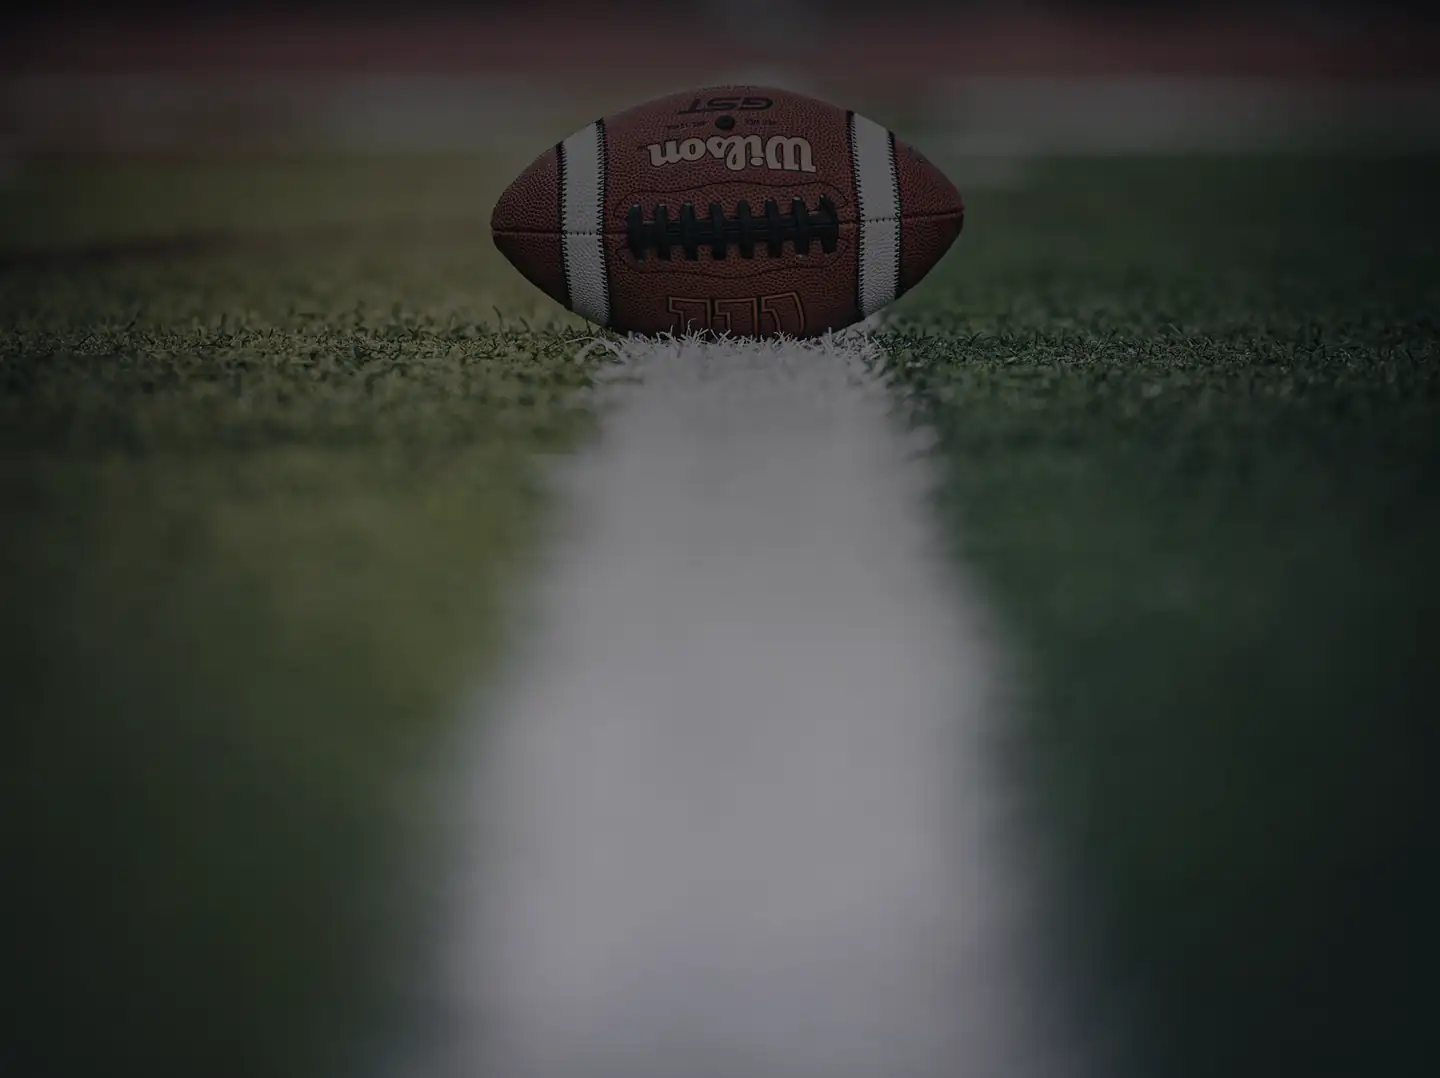
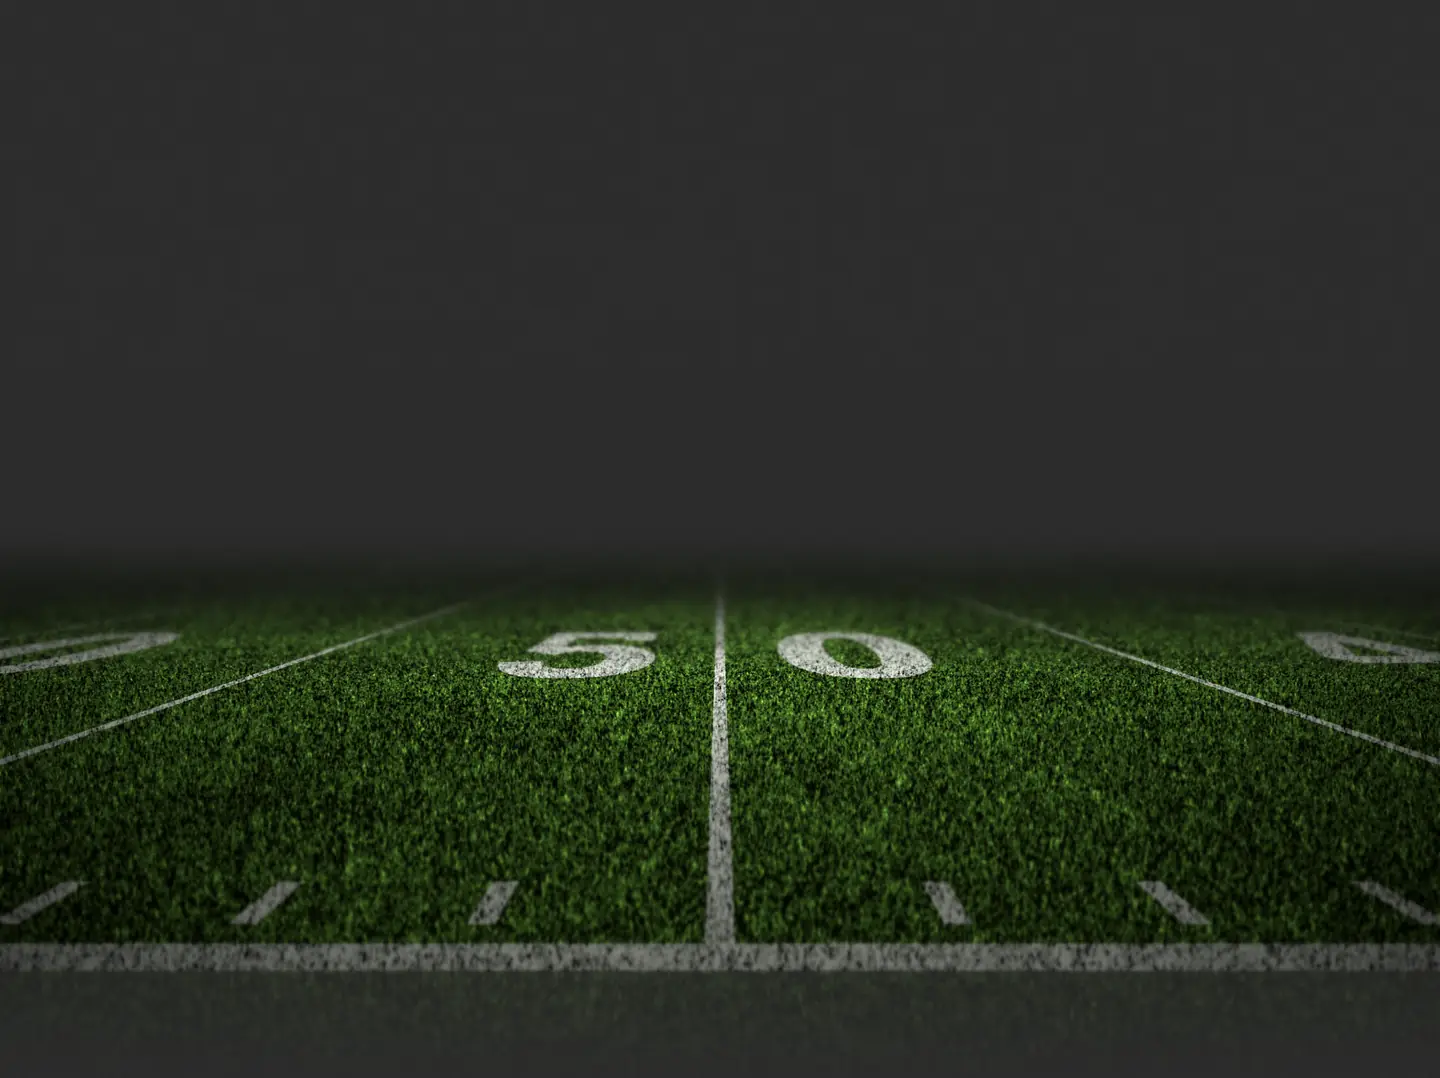
Influence: rendered floodlit field, softer grain, Total Yards box height
- Replace the darkened ball close-up (read as a grey light patch) with a
  procedural floodlit pitch (scripts/gen-field.py), no third-party marks.
- Grass grain: 512px tile shown at 170px, ~40% less contrast than the
  reference; mean kept so the page tone is unchanged.
- Total Yards: keep the 0.8 glyph scale but restore the reference line-box
  height, so every section below starts where it does in the original.

diff --git a/apps/web/scripts/gen-field.py b/apps/web/scripts/gen-field.py
@@ -1,0 +1,190 @@
+"""Procedural floodlit football field for the Influence section (replaces a stock photo).
+
+Camera stands just behind the near sideline at the 50, eye ~1.5 m up, looking across the
+field. The ground is ray-cast per pixel (2x supersampled), so turf grain, mowing stripes,
+painted lines and numerals all foreshorten correctly. Then: floodlight pool, fog into the
+page base (#2D2D2D) toward the horizon, distance blur and a dark grade.
+
+  python apps/web/scripts/gen-field.py  ->  public/media/influence-field.webp (1440x1078)
+"""
+import os
+import numpy as np
+from PIL import Image, ImageDraw, ImageFont
+from scipy.ndimage import gaussian_filter, map_coordinates
+
+OUT = os.path.join(os.path.dirname(__file__), "..", "public", "media", "influence-field.webp")
+W, H, S = 1440, 1078, 2                      # output size, supersampling
+FONT = "C:/Windows/Fonts/ROCKB.TTF"          # slab serif, close to painted field numerals
+BASE = np.array([45, 45, 45], np.float32)    # page base colour the image dissolves into
+rng = np.random.default_rng(50)
+
+w, h = W * S, H * S
+f = 1.0 * w                                   # focal length (px) ~ 53 deg horizontal FOV
+cx, cy = w / 2, h / 2
+theta = np.arctan(0.02 * h / f)               # slight downward pitch: horizon at 48% height
+cam_h = 1.7                                   # yards
+ZS = 5.55                                     # near sideline distance (yards, across-field axis)
+
+v, u = np.mgrid[0:h, 0:w].astype(np.float32)
+x = (u + 0.5 - cx) / f
+y = (v + 0.5 - cy) / f
+dy = -y * np.cos(theta) - np.sin(theta)
+dz = -y * np.sin(theta) + np.cos(theta)
+ground = dy < -1e-4
+t = np.where(ground, cam_h / np.maximum(-dy, 1e-4), 1e4)
+X = t * x                                     # along the sideline (yard lines are X = const)
+Z = t * dz                                    # away from the camera
+Z = np.minimum(Z, 400)
+
+# ---------------- turf ----------------
+def screen_noise(sig_x, sig_y):
+    n = gaussian_filter(rng.standard_normal((h, w)).astype(np.float32), (sig_y, sig_x))
+    return n / (n.std() + 1e-6)
+
+# Blade grain whose size follows the ground footprint: near = coarse vertical blades,
+# far = fine, squashed streaks. Blend a few precomputed scales by distance.
+scales = [(1.3, 3.4, 9.0), (1.1, 2.0, 14.0), (1.0, 1.1, 22.0), (0.9, 0.6, 40.0), (0.7, 0.4, 1e9)]  # (sx, sy) in supersampled px
+grain = np.zeros((h, w), np.float32)
+prev_z, prev_n = 0.0, None
+weights_total = np.zeros((h, w), np.float32)
+for sx, sy, zmax in scales:
+    n = screen_noise(sx, sy) * 0.7 + screen_noise(sx * 2.2, sy * 2.2) * 0.3
+    centre = (prev_z + min(zmax, 80)) / 2
+    wgt = np.exp(-((Z - centre) / max(min(zmax, 80) - prev_z, 4)) ** 2)
+    grain += n * wgt
+    weights_total += wgt
+    prev_z = zmax if zmax < 1e8 else prev_z
+grain /= np.maximum(weights_total, 1e-4)
+grain /= grain.std() + 1e-6
+
+def world_noise(scale_yd, octaves=3):
+    """Low-frequency mottling sampled in world space (so it foreshortens)."""
+    acc = np.zeros((h, w), np.float32)
+    amp, sc = 1.0, scale_yd
+    for _ in range(octaves):
+        g = gaussian_filter(rng.standard_normal((256, 256)).astype(np.float32), 3, mode="wrap")
+        g /= g.std()
+        gi = (X / sc * 256 / 8) % 256
+        gj = (Z / sc * 256 / 8) % 256
+        acc += amp * map_coordinates(g, [gj.ravel(), gi.ravel()], order=1, mode="grid-wrap").reshape(h, w)
+        amp *= 0.5
+        sc /= 2.2
+    return acc / acc.std()
+
+mottle = world_noise(9.0)
+stripes = np.where((np.floor((X + 2.5) / 5.0) % 2) == 0, 1.0, 0.9)  # mowing bands between yard lines
+turf_lum = np.clip(1.0 + 0.48 * grain + 0.08 * mottle, 0.12, None)
+turf = np.stack([50 * turf_lum, 80 * turf_lum, 24 * turf_lum], -1) * stripes[..., None]
+# a few lighter dry tips
+turf += (np.clip(grain - 1.8, 0, None) * 18)[..., None] * np.array([1.0, 1.0, 0.6])
+
+# ---------------- paint ----------------
+paint = np.zeros((h, w), np.float32)
+LW = 0.12                                                     # 4" lines, in yards
+field = (Z >= ZS) & (Z <= ZS + 53.33)
+def band(a, lo, hi):
+    return ((a >= lo) & (a <= hi)).astype(np.float32)
+
+paint = np.maximum(paint, band(Z, ZS - 0.17, ZS + 0.17))      # near sideline (wide border)
+for k in range(-50, 51, 5):                                   # yard lines every 5 yards
+    paint = np.maximum(paint, band(X, k - LW / 2, k + LW / 2) * field)
+for k in range(-50, 51):                                      # 1-yard ticks: sideline + inbounds
+    if k % 5 == 0:
+        continue
+    for z0, z1 in ((ZS + 0.45, ZS + 1.15), (ZS + 23.3, ZS + 23.9), (ZS + 29.4, ZS + 30.0)):
+        paint = np.maximum(paint, band(X, k - LW / 2, k + LW / 2) * band(Z, z0, z1))
+
+# Numerals: drawn into a world-space canvas (100 px / yard), sampled through the projection.
+PX = 100
+nx0, nx1, nz0, nz1 = -26.0, 26.0, ZS + 5.0, ZS + 53.0
+NZ0, NW, ND = ZS + 9.6, 2.2, 6.2   # near numerals: base, width, depth (yards)
+canvas = Image.new("L", (int((nx1 - nx0) * PX), int((nz1 - nz0) * PX)), 0)
+d = ImageDraw.Draw(canvas)
+font = ImageFont.truetype(FONT, int(2.0 * PX * 1.36))
+def numeral(txt, x_centre, z_base, flip=False):
+    """2-yard-tall digit standing on z_base, readable from the near (or far) sideline."""
+    tile = Image.new("L", (int(3 * PX), int(3 * PX)), 0)
+    td = ImageDraw.Draw(tile)
+    bb = td.textbbox((0, 0), txt, font=font)
+    tw, th = bb[2] - bb[0], bb[3] - bb[1]
+    tile = tile.resize((tw + 4, th + 4))
+    ImageDraw.Draw(tile).text((2 - bb[0], 2 - bb[1]), txt, font=font, fill=255)
+    tile = tile.resize((int(NW * PX), int(ND * PX)), Image.LANCZOS)  # stretched in depth so it reads upright once foreshortened
+    if not flip:
+        tile = tile.transpose(Image.FLIP_TOP_BOTTOM)  # canvas rows run away from the camera
+    px = int((x_centre - nx0) * PX - tile.width / 2)
+    pz = int((z_base - nz0) * PX)
+    canvas.paste(255, (px, pz), tile)
+
+for yard, X0 in ((50, 0), (40, -10), (40, 10), (30, -20), (30, 20)):
+    a, b = str(yard)
+    numeral(a, X0 - 1.65, NZ0)
+    numeral(b, X0 + 1.65, NZ0)
+    numeral(b, X0 - 1.65, ZS + 53.33 - 8.0, flip=True)         # far side, upside down to us
+    numeral(a, X0 + 1.65, ZS + 53.33 - 8.0, flip=True)
+cv = np.asarray(canvas, np.float32) / 255.0
+ci = (X - nx0) * PX
+cj = (Z - nz0) * PX
+inside = (ci >= 0) & (ci < cv.shape[1] - 1) & (cj >= 0) & (cj < cv.shape[0] - 1)
+num = np.zeros((h, w), np.float32)
+num[inside] = map_coordinates(cv, [cj[inside], ci[inside]], order=1)
+paint = np.maximum(paint, num)
+
+# painted grass: paint sits on blades, so it takes the grain and frays at the edges
+paint *= np.clip(0.86 + 0.14 * grain, 0.45, 1.0)
+paint *= (np.clip(grain, -3, 3) > -2.5)
+line_col = np.array([206, 210, 200], np.float32) * (0.92 + 0.08 * np.clip(grain, -2, 2))[..., None]
+img = turf * (1 - paint[..., None]) + line_col * paint[..., None]
+
+
+# ---------------- light ----------------
+def g2(a, b, sa, sb):
+    return np.exp(-(a / sa) ** 2 - (b / sb) ** 2)
+
+pool = 0.30 + 0.80 * g2(X, Z - (ZS + 12), 15, 11)
+img *= pool[..., None]
+# lateral vignette in screen space (floodlights from behind the camera)
+sxn = (u / w - 0.5) * 2
+img *= (1 - 0.38 * np.clip(np.abs(sxn) ** 2.2, 0, 1))[..., None]
+
+# outside the near sideline: dark worn turf/track
+outside = Z < ZS - 0.17
+img = np.where(outside[..., None], img * 0.3 + BASE * 0.78, img)
+
+# fog into the page base toward the horizon (and above it)
+fog = 1 - np.exp(-np.clip(Z - ZS - 8, 0, None) / 34.0)
+fog = np.where(ground, fog, 1.0)
+img = img * (1 - fog[..., None]) + BASE * fog[..., None]
+# soft dark band right at the horizon (stadium haze), then flat base above
+hz = cy - f * np.tan(theta)
+haze = np.exp(-((v - hz) / (0.035 * h)) ** 2)
+img = img * (1 - 0.12 * haze[..., None]) + BASE * 0.12 * haze[..., None]
+# bottom fade to base
+bot = np.clip((v / h - 0.9) / 0.1, 0, 1) ** 1.5
+img = img * (1 - bot[..., None]) + BASE * bot[..., None]
+
+# ---------------- depth of field ----------------
+inv = 1.0 / np.maximum(Z, 0.1) - 1.0 / (ZS + 10)
+coc = np.where(inv > 0, inv * 14, -inv * 110) * S   # px; near side stays crisp, distance goes soft
+coc = np.where(ground, coc, 0)
+coc = np.clip(coc, 0, 9 * S)
+levels = [0, 1.2 * S, 2.6 * S, 4.8 * S, 9.0 * S]
+stack = [img] + [np.stack([gaussian_filter(img[..., c], s) for c in range(3)], -1) for s in levels[1:]]
+out = np.zeros_like(img)
+for i in range(len(levels) - 1):
+    lo, hi = levels[i], levels[i + 1]
+    m = (coc >= lo) & (coc <= hi)
+    tt = ((coc - lo) / (hi - lo))[..., None]
+    mix = stack[i] * (1 - tt) + stack[i + 1] * tt
+    out = np.where(m[..., None], mix, out)
+out = np.where((coc > levels[-1])[..., None], stack[-1], out)
+
+# ---------------- grade + downsample ----------------
+lum = out.mean(-1, keepdims=True)
+out = lum + (out - lum) * 0.92                                   # a touch less saturated
+out = BASE + (out - BASE) * 1.06
+res = Image.fromarray(np.clip(out, 0, 255).astype(np.uint8), "RGB").resize((W, H), Image.LANCZOS)
+# fine film grain so the flat base matches the rest of the page
+a = np.asarray(res, np.float32) + rng.normal(0, 1.4, (H, W, 1))
+Image.fromarray(np.clip(a, 0, 255).astype(np.uint8), "RGB").save(OUT, quality=72, method=6)
+print("wrote", os.path.normpath(OUT))

diff --git a/apps/web/scripts/gen-textures.py b/apps/web/scripts/gen-textures.py
@@ -4,7 +4,7 @@
 
 Writes into apps/web/public/textures/:
   pebble.webp  480px tile  - football-leather pebble grain (Voronoi domes)
-  grass.webp   170px tile  - turf fibre noise
+  grass.webp   512px tile  - fine turf grain, shown at 170px
   light.webp   1440x810    - soft diagonal light shaft (alpha), used with soft-light blend
 """
 import os
@@ -52,22 +52,28 @@ def pebble(size=480, cells=70):
     Image.fromarray(np.clip(img, 0, 255).astype(np.uint8), "L").save(os.path.join(OUT, "pebble.webp"), quality=58, method=6)
 
 
-def grass(size=170, blades=5200):
-    big = Image.new("L", (size * 3, size * 3), 60)
+def grass(size=512, blades=26000, display=170, target_std=13.0):
+    """Fine turf grain: a 512px tile shown at 170 CSS px (like a 3x asset), so the browser
+    averages it into a soft, even grain. Contrast is set on the *displayed* tile (std ~13 at
+    170px, about 60% of the reference's ~21), mean kept at 78 so the multiply darkening -
+    i.e. the page tone - is unchanged."""
+    big = Image.new("L", (size * 3, size * 3), 72)
     d = ImageDraw.Draw(big)
     for _ in range(blades):
         x, y = rng.uniform(0, size), rng.uniform(0, size)
-        ang = rng.normal(-np.pi / 2, 0.55)
-        ln = rng.uniform(3, 9)
-        c = int(np.clip(rng.normal(95, 45), 10, 230))
+        ang = rng.normal(-np.pi / 2, 0.6)
+        ln = rng.uniform(4, 13)
+        c = int(np.clip(rng.normal(88, 34), 20, 200))
         for ox in (0, size, 2 * size):
             for oy in (0, size, 2 * size):
                 x0, y0 = x + ox, y + oy
                 d.line([(x0, y0), (x0 + np.cos(ang) * ln, y0 + np.sin(ang) * ln)], fill=c, width=1)
-    tile = big.crop((size, size, 2 * size, 2 * size)).filter(ImageFilter.GaussianBlur(0.35))
+    tile = big.crop((size, size, 2 * size, 2 * size)).filter(ImageFilter.GaussianBlur(0.6))
     a = np.asarray(tile, np.float32)
-    a = (a - a.mean()) / (a.std() + 1e-6) * 40 + 78
-    Image.fromarray(np.clip(a, 0, 255).astype(np.uint8), "L").save(os.path.join(OUT, "grass.webp"), quality=62, method=6)
+    a -= a.mean()
+    shown = np.asarray(Image.fromarray(a + 128).resize((display, display), Image.BOX), np.float32)
+    a = a * (target_std / (shown.std() + 1e-6)) + 78
+    Image.fromarray(np.clip(a, 0, 255).astype(np.uint8), "L").save(os.path.join(OUT, "grass.webp"), quality=70, method=6)
 
 
 def light(w=1440, h=810):
@@ -86,8 +92,10 @@ def light(w=1440, h=810):
 
 
 if __name__ == "__main__":
-    pebble()
-    grass()
-    light()
+    import sys
+    only = set(sys.argv[1:]) or {"pebble", "grass", "light"}
+    for name in ("pebble", "grass", "light"):
+        if name in only:
+            {"pebble": pebble, "grass": grass, "light": light}[name]()
     for f in sorted(os.listdir(OUT)):
         print(f, os.path.getsize(os.path.join(OUT, f)) // 1024, "KB")
